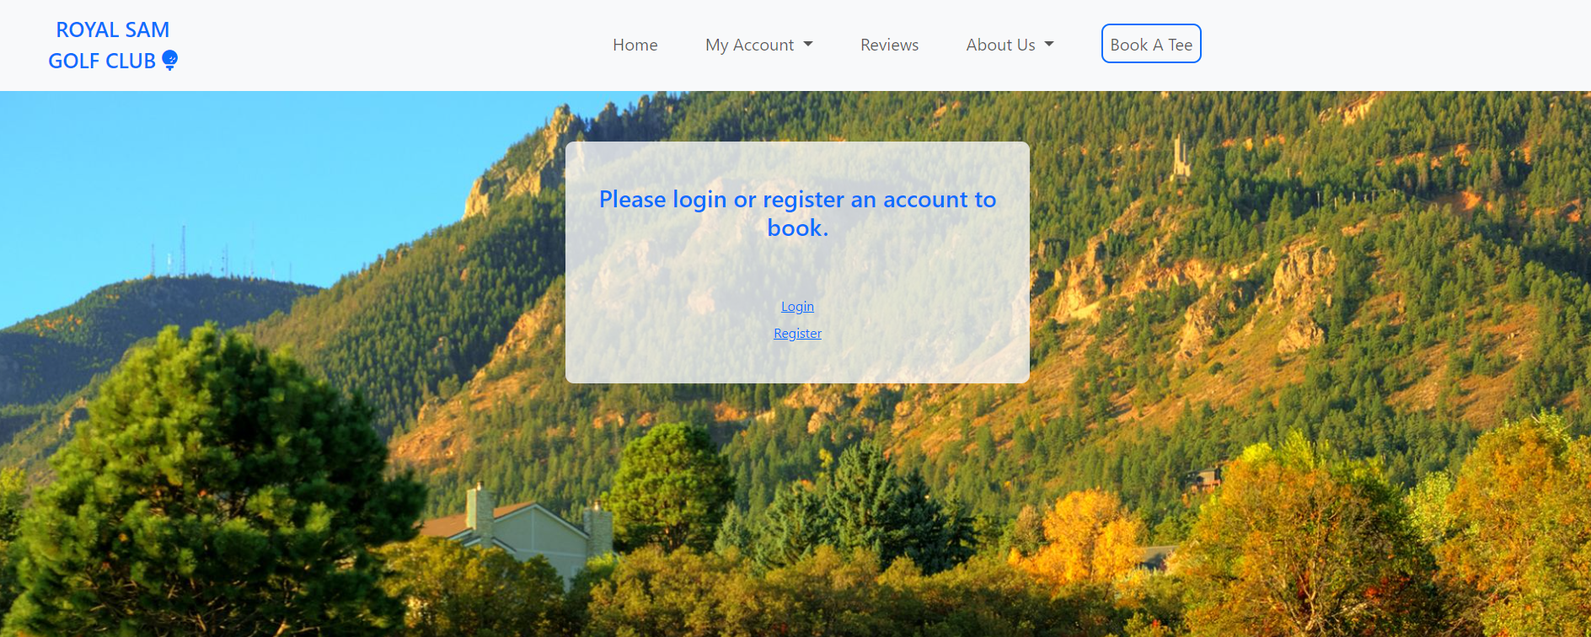
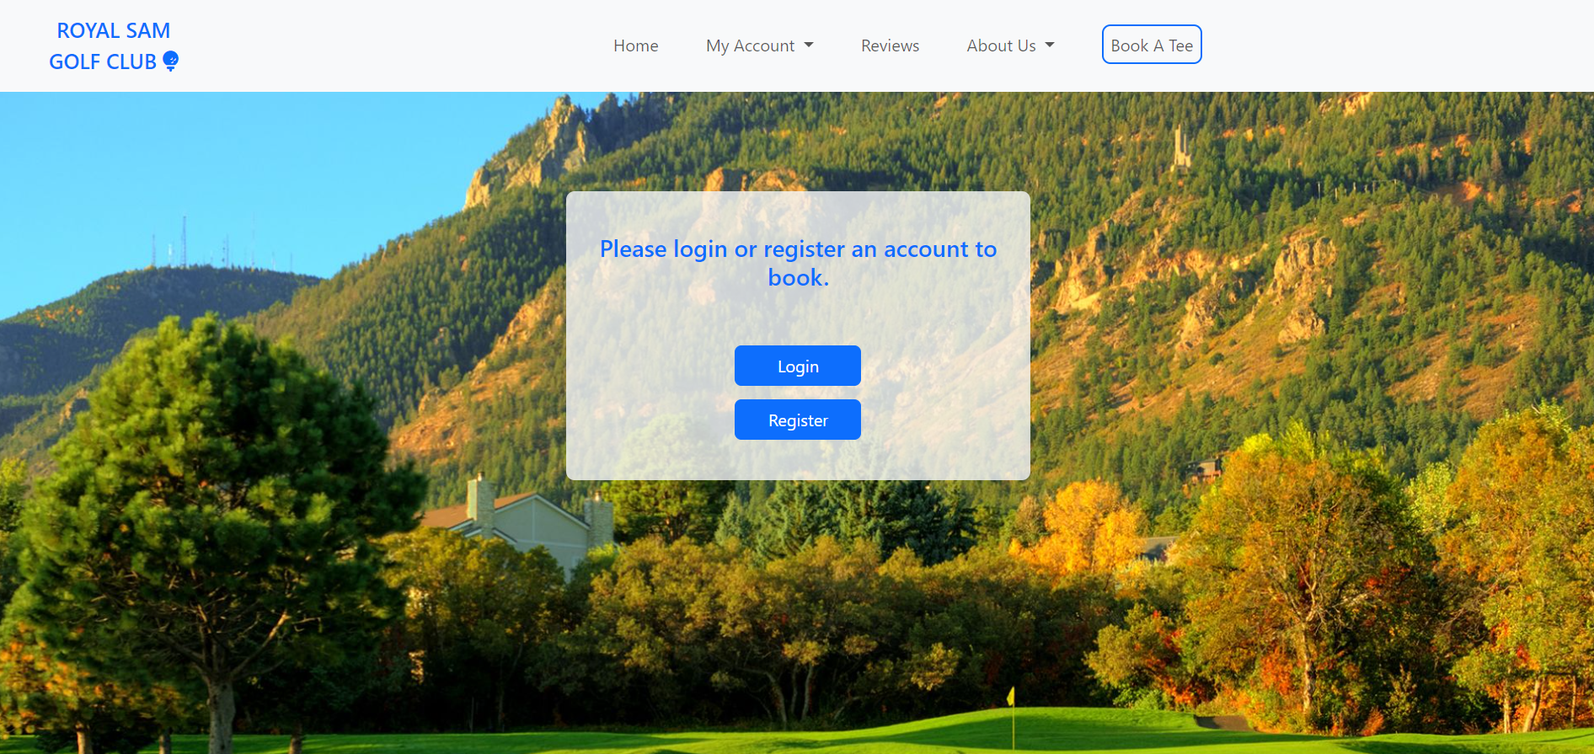
Add spelling and grammar corrections in read me file. Also add up to date screenshot of book a tee when logged out. Complete admin delete photos in manual testing table

diff --git a/TESTING.md b/TESTING.md
@@ -40,7 +40,7 @@ Full test table:
 | Logout | When user is logged in, they are able to click on the logout link, this takes them to a logout page which asks the user if they are sure they want to logout. Clicking on the logout in the message will logout the user. | Went through the logging out process using several different accounts. | Successfully logged out of accounts and navbar turns back into original (logged out) state. | Pass |
 | Logout pop-up message. | When a user has logged out a pop-up message appears informing them, they have logged out successfully. | Logged out with several different accounts. | Every time logged out successfully a pop-up message appeared informing me that I had done so. | Pass |
 | Reviews page logged out. | User is able to go onto the reviews page when logged out. A list of all reviews should be on display and user should also be able to paginate through the reviews. | Numerous times visited site without being logged in and went on the reviews page. | All reviews were displayed in a list and was able to paginate through the reviews. | Pass |
-| Reviews page logged in. | User is able to go onto the reviews page just like when logged out but now has a link option to leave their own review. This link takes them to the leave a review page and form. | Logged into several different accounts and went on to the reviews page. | Every time reviews were displayed as they should be a leave a review link is now present. The link successfully takes me to the leave a review page and form. | Pass |
+| Reviews page logged in. | User is able to go onto the reviews page just like when logged out but now has a link option to leave their own review. This link takes them to the leave a review page and form. | Logged into several different accounts and went on to the reviews page. | Every time reviews were displayed as they should be and a leave a review link is now present. The link successfully takes me to the leave a review page and form. | Pass |
 | Leave a review. | When user goes to leave a review, they must fill out the form correctly before submitting. Once form is filled out correctly and submitted user is redirected back to the reviews page and informed with pop up message the review is awaiting approval. | As a user attempted to leave many reviews and tried submitting form incorrectly. | Form had to be filled out correctly. Once done correctly I was redirected to the main reviews page and had pop up message saying my review is awaiting approval. | Pass |
 | logged out review in full. | When user is logged out and on the reviews page, they are able to click on any review they choose and be able to open that review in full and see all its details, including any comments. | Went on the review page and tried clicking on all reviews. | Every time I was taken to the review I clicked on, the review was now displayed in full on its own, with any comments also on display. | Pass |
 | Logged in review in full. | When user is logged in, they can open a review up in full the same as when logged out, but now they are able to like the review themselves and also able to leave a comment of the own by filling out the comment form which is now visible. | Logged into several different accounts and opened up several different reviews. | Every time reviews opened up in full. I was able to like and unlike the review by clicking on the heart icon. The comment form was also now visible to allow me to leave my own comment. | Pass |
@@ -49,8 +49,8 @@ Full test table:
 | Comment icon count. | When viewing the review in full the comments icon displays the number of how many comments this review has. | Clicked on several reviews to see if the comments icon was displaying the number of comments. Also then created new comments to make sure the number was adding up. | The comments icon was displaying the correct number of comments and was also adding up once a comment had been approved. | Pass |
 | Number of likes | When on the main reviews page, the review information on display would show how many likes this review has had. | Went on the main reviews page to see the list of all reviews to see if they displayed how many likes the review has had. I then went onto each review in full and liked them. | Every time I went onto the main reviews page, I could see how many likes each review has had, then when I went back on the main reviews page after liking individual reviews, I could see the number of likes had gone up. | Pass |
 | Google maps. | When user loads the Contact Us page, google maps loads and is displayed. | As a user loaded up the Contact Us page. | Contact Us page loads and google maps is on display. | Pass |
-| Book a tee. | When user is logged in and clicks on any book a tee links, the user is taken to the first part of the booking process. User must fill out he book a tee form correctly before being able to continue to the next part. | Logged in to several different accounts and clicked on the book a tee links. Tried leaving fields blank in the book a tee form. | Every time the book a tee form loaded correctly and user was not allowed to continue to the second part unless both fields were filled out correctly. | Pass |
-| Book a tee form correct date. | When user is selecting a date for the book a tee form, the user must select a date that either the present date or future date. Any past date submitted will make a pop-up message appear asking the user to select a future date. | Loaded the book a tee form and tried submitting a past date. | User was unable to move on to the next part of the booking and pop-up message appears asking user to select a future date. | Pass |
+| Book a tee. | When user is logged in and clicks on any book a tee links, the user is taken to the first part of the booking process. User must fill out the book a tee form correctly before being able to continue to the next part. | Logged in to several different accounts and clicked on the book a tee links. Tried leaving fields blank in the book a tee form. | Every time the book a tee form loaded correctly and user was not allowed to continue to the second part unless both fields were filled out correctly. | Pass |
+| Book a tee form correct date. | When user is selecting a date for the book a tee form, the user must select a date that is either the present date or future date. Any past date submitted will make a pop-up message appear asking the user to select a future date. | Loaded the book a tee form and tried submitting a past date. | User was unable to move on to the next part of the booking and pop-up message appears asking user to select a future date. | Pass |
 | Book a tee form available date. | When user is selecting a date for the book a tee form, the user must select a date that has available times. Once date is selected and next button clicked, if there are no available times for that date user will have to select a different date to progress with booking and pop-up message appears informing user there is no available times for that date. | Several times filled out the book a tee form with a date which I knew was fully booked or was too late at night. | Every time I was not allowed to progress to the next part of the booking and pop-up message appeared informing me there were no times available. | Pass |
 | Booking date default. | When booking form first loads, the dates default is always the present date. | Loaded up the booking form on several different days. | The date always defaults to the present date. | Pass |
 | Booking form 2 | Once user has successfully submitted the first part of them form with the date and email, they are forwarded onto to the second part of the form. The form loads and a pop-up message appears letting the user know what date they selected in the previous form. | Submitted the first part of the booking forms successfully. | The second part of the booking loaded correctly pop-up message appeared letting me know the date I selected in the previous form. | Pass |
@@ -60,8 +60,8 @@ Full test table:
 | Number of players. | When user is on the second part of the booking form, the number of players option is a drop down-menu and will only let users select number 1 to 4. This option is also default to 1. | Logged in as several different users and went through booking process and tried selecting number of players. | When trying to select number of players, form provides a drop-down menu which only lets users select number 1 - 4. When form is originally loaded its default was always 1. | Pass |
 | Booking member | When user is filling out the booking form, they are able to select and tick the box to confirm they are a member of the golf club. | Loaded the booking form and tried selecting the member field. | I was able to select the member field. | Pass |
 | Booking buggy. | When user is filling out the booking form, they are able to select whether or not they would like to have a buggy. | Loaded the booking form and tried selecting the buggy field. | I was able to select the buggy field. | Pass |
-| Successfully booked. | When user has successfully booked a tee time, they are redirected to the my bookings page where there booking should now be. A pop-up message will also appear showing information for the recent booking. | Logged in as several different users and created bookings. | Every time I created a booking, I was redirected to the my bookings page where I could see my bookings and a pop-up message appeared with information from my recent booking. | Pass |
-| My bookings page. | When User clicks on my bookings link, my bookings page loads displaying all clearly the bookings the user has made in order of their next booking. Bookings that haven't already past will be shown. | Logged in with many different users and loaded the my bookings page. | Every time I loaded the my bookings page, any bookings the user has made and that has not past were displayed clearly in a list, in order of the next booking. | Pass |
+| Successfully booked. | When user has successfully booked a tee time, they are redirected to the my bookings page where their booking should now be. A pop-up message will also appear showing information for the recent booking. | Logged in as several different users and created bookings. | Every time I created a booking, I was redirected to the my bookings page where I could see my bookings and a pop-up message appeared with information from my recent booking. | Pass |
+| My bookings page. | When User clicks on my bookings link, my bookings page loads clearly displaying all the bookings the user has made in order of their next booking. Bookings that haven't already past will be shown. | Logged in with many different users and loaded the my bookings page. | Every time I loaded the my bookings page, any bookings the user has made and that has not past were displayed clearly in a list, in order of the next booking. | Pass |
 | My booking page with no bookings. | When user loads the my bookings page and they have no upcoming bookings, a message on the screen will inform them they have no bookings with a link to book a tee. This link will take user to the first part of the book a tee form. | Logged in as several users with no bookings and loaded the my bookings page. | My bookings page loaded which then stated I had no bookings and shown me a link to book a tee. The book a tee link successfully took me to the first part of the book a tee form as other book a tee links. | Pass |
 | Paginate though my bookings. | When user loads up the my bookings page, if they have more than three bookings the user is able to paginate through different pages to view their bookings. | Logged into several different accounts that had lots of bookings and loaded the my bookings page. | I was able to paginate through pages to view all of my bookings. | Pass |
 | My bookings edit. | When user is in my bookings page, they are able to click on the edit button on any booking which will then take them to the first part of the booking forms. This time the form reads change tee time and has a cancel button present. | Logged in as several different users and tried the edit button on several different bookings. | Every time I clicked on the edit button, I was taken to the first part of the booking form, it was named change tee time and had a cancel button present. | Pass |
@@ -69,10 +69,10 @@ Full test table:
 | My bookings cancel button. | When user is in the editing a booking process, if in either of the forms the user clicks the cancel button, the editing process will be cancelled and redirected back to the main my bookings page. | Went through editing process and at separate occasions clicked on cancel in both forms. | Every time in either form the editing process was cancelled and was redirected back to main bookings page. | Pass |
 | Edit booking date. | When user tries to edit a booking, on the first form the default for the date field will now be the date of the booking the user is trying to edit. | Tried editing bookings with different dates. | Every time I clicked on edit, the existing date of the booking I was editing was already present in the date field. | Pass |
 | Edit booking email. | When user tries to edit a booking, on the first form the email field will already be filled in with the email from the existing booking. | Tried editing bookings with different emails. | Every time I clicked on edit on different users with different email addresses, the existing email address from that booking was already in the email field. | Pass |
-| Edit booking successful. | When user is trying to edit a booking and has gone through the process just like the original booking process. The user clicks update to submit, the user is then redirected back to the main my bookings page where they can find the booking they had edited will now show will the new information for the booking. Pop up message will also appear with information about the recent booking. | Went through the editing process for numerous bookings. | Every time I was redirected back to the main my bookings page where I could see the changes I had just made, and a pop-up message appeared showing me the recent booking information. | Pass |
+| Edit booking successful. | When user is trying to edit a booking and has gone through the process just like the original booking process. The user clicks update to submit, the user is then redirected back to the main my bookings page where they can find the booking they had edited and will now show the new information for the booking. Pop up message will also appear with information about the recent booking. | Went through the editing process for numerous bookings. | Every time I was redirected back to the main my bookings page where I could see the changes I had just made, and a pop-up message appeared showing me the recent booking information. | Pass |
 | Delete Booking. | When a user is on the my booking  page, they are able to click on delete on any of their bookings, which will take them to a page asking if they are sure they want to delete this booking. If they click yes, the booking will be deleted and redirected back to the main my bookings page, an alert message will also appear telling the user they have successfully deleted their booking. If they click no, they will be redirected back to the main my bookings page. | Logged into several different accounts and deleted several different bookings. Also clicked no to delete on several different bookings. | When I clicked on the delete button for any booking, I was taken to a separate page asking if I'm sure I want to delete. When I clicked yes, I was redirected back to the main my bookings page and the booking was deleted, the alert message was also on display. When I clicked on no I was redirected back to the main my bookings page and the booking was still present. | Pass |
-| All forms cannot accept only spaces. | When a user is filling out any of the forms, the user is not able to just use only spaces in any of the required fields and submit the form. | In the leave a review form and comments form, for all required fields I attempted to submit the forms with only spaces. I did this all together and fields individually to prove if it worked. | Every time I tried to submit a form with any of the required fields only having spaces, the form was not submitted and the page was reloaded with an alert message, informing the user the it's a required field and cannot contain white spaces alone. | Pass |
-| Maximum character limit in forms. | When a user is filling out either the leave a review form or comments form, they should be allowed to exceed the maximum characters in the field. In the leave a review form the title is 200 characters and content is 1000 characters. Comment for the body has a limit of 1000 characters. | Filled out both leave a review and comment forms several times, each time trying to exceed the character limit. | Every time I filled out the forms, the form itself would not let me go past the maximum characters in its field. | Pass |
+| All forms cannot accept only spaces. | When a user is filling out any of the forms, the user is not able to just use only spaces in any of the required fields and submit the form. | In the leave a review form and comments form, for all required fields I attempted to submit the forms with only spaces. I did this all together and fields individually to prove if it worked. | Every time I tried to submit a form with any of the required fields only having spaces, the form was not submitted and the page was reloaded with an alert message, informing the user it's a required field and cannot contain white spaces alone. | Pass |
+| Maximum character limit in forms. | When a user is filling out either the leave a review form or comments form, they should not be allowed to exceed the maximum characters in the field. In the leave a review form the title is 50 characters and content is 1000 characters. Comment for the body has a limit of 1000 characters. | Filled out both leave a review and comment forms several times, each time trying to exceed the character limit. | Every time I filled out the forms, the form itself would not let me go past the maximum characters in its field. | Pass |
 | Special cases work in review title. | When user uses any special cases that aren't usually accepted in a URL, the form accepts it and creates a slug that is accepted to be used for the URL. | Created different titles for my review using "!" and other special cases not usually accepted. | Each time the slug was automatically created a name accepted to be used in the URL. | Pass |
 | Unique review title. | When the user is filling out the leave a review form, the user must type in a unique title. If the title is not unique the form will be rendered again, with an alert message informing the user that the title they provided already exists. | Filled out the leave a review form several times and using titles I knew already existed. | The form would not be submitted and an alert message appeared informing me that the title already exists. | Pass |
 | Alert messages timeout. | Once an alert message is displayed it can either be closed by the user or timed out in four seconds. | Went through various scenarios where alert messages would be displayed. I then attempted to close them and see if they would time out. | Every time an alert message appeared I was able to close down the message myself or if I waited four seconds the message would time out. | Pass |
@@ -88,7 +88,7 @@ Full test table:
 | Admin create and amend booking. | As admin they are able to create a new or amend an existing booking. | Logged in as admin and tried to create a new booking and edit an existing booking. | I was able to create a new booking and able to edit an existing one. | Pass |
 | Admin delete booking. | As admin they are able to delete a booking. | Logged in as admin and deleted a booking. | I was successfully able to delete a booking. | Pass |
 | Admin add to photo gallery. | As admin they are able to upload new photos onto the site's gallery page. | Logged in as admin and tried uploading new photos to the gallery page. | Photos were successfully added to the gallery page. | Pass |
-| Admin delete photos from gallery. | As admin they able to delete any existing photos from the site's gallery page. | Logged in as admin and tried deleting photos from the gallery. |
+| Admin delete photos from gallery. | As admin they are able to delete any existing photos from the site's gallery page. | Logged in as admin and tried deleting photos from the gallery. | I was successfully able to delete photos. | Pass |
 | Error Page 404 works. | When user attempts something that creates an error 404, my custom 404.html page is rendered and user is able to click the link provided to go back to the homepage. | Created a 404 error. | My custom error 404 page was rendered and was able to click on link provided to navigate back to the homepage. | Pass |
 | Error Page 403 works. | When user attempts something that creates an error 403, my custom 403.html page is rendered and user is able to click the link provided to go back to the homepage. | Created a 403 error. | My custom error 403 page was rendered and was able to click on link provided to navigate back to the homepage. | Pass |
 | Error Page 403_csrf works. | When user attempts something that creates an error 403_csrf, my custom 403_csrf.html page is rendered and user is able to click the link provided to go back to the homepage. | Created a 403_csrf error. | My custom error 403_csrf page was rendered and was able to click on link provided to navigate back to the homepage. | Pass |
@@ -315,7 +315,7 @@ All results are in the table below:
 
 ### W3C CSS Validator
 
-W3C CSS Validator was use to validate the site's CSS code.
+W3C CSS Validator was used to validate the site's CSS code.
 
 ![W3C CSS Validator Screenshot](docs/testing_screenshots/css-validate-screenshot.png)
 
@@ -378,7 +378,7 @@ Devices tested and devices using google tools:
 | No maximum character limit on forms. | When user filled out the leave a review or comment forms, they were able to exceed the maximum characters set in the model. | Through research I found out that I can prevent the user from exceeding the maximum characters by setting the max length in the in the forms.py file. This then resolved the issue. |
 | Only spaces in forms. | When user filled out the leave a review or comment forms, they were able to just use the space bar in the fields and submit. | Through research I found that the "is_valid()" function that's checking if the form is valid, checks for white spaces and if so, deems the form invalid. I then used this to then render form again and display a message informing the user that white spaces alone are not accepted. This then resolved the issue. |
 | Access others edit and delete bookings. | I was able to copy the URL from one users edit / delete booking, then logout, paste in the URL and still be able access the edit and delete booking pages. | I then added login required to all classes that requires a user to be logged in, then also within the classes checked that the request user is the same as the booking user, if not this would render a 403 error and prevent users from accessing other users bookings. This resolved the issue. |
-| Users trying to book same booking at the same time. | When two users are going through the booking process at the same time and try to book the same booking, the first user to complete booking but the other user has the page rendered again but doesn't know why and the times aren't now displayed correctly. | I found out that the "is_valid()" function was checking this automatically  for me, so I changed the code so when this happens and the form isn't valid as another user has just made the booking, the user who's booking wasn't valid now has the page rendered again with a message informing them that the booking could now have been taken and to select an available time. The times available are now displaying the correct times. |
+| Users trying to book same booking at the same time. | When two users are going through the booking process at the same time and try to book the same booking, the first user to complete booking was fine, but the other user has the page rendered again but doesn't know why and the times aren't now displayed correctly. | I found out that the "is_valid()" function was checking this automatically  for me, so I changed the code so when this happens and the form isn't valid as another user has just made the booking, the user who's booking wasn't valid now has the page rendered again with a message informing them that the booking could now have been taken and to select an available time. The times available are now displaying the correct times. |
 
 [Back to top](#royal-sam-golf-club-testing)
 

diff --git a/README.md b/README.md
@@ -48,7 +48,7 @@ This is my fourth portfolio project for the Code Institute and my goal with this
 
 ### The Strategy Plane
 
-Royal Sam Golf Club is intended to help golfers be able to book tee times to play at the golf course whether they are a member of a guest of the golf club. User will also be able to manage their bookings and be able to leave reviews and comment on other reviews.
+Royal Sam Golf Club is intended to help golfers be able to book tee times to play at the golf course whether they are a member or a guest of the golf club. User will also be able to manage their bookings and be able to leave reviews and comment on other reviews.
 
 #### The Ideal User
 
@@ -302,7 +302,7 @@ Delete Page:
 
 #### Database Schema
 
-The profile model is linked directly to the built in User Model in conjunction with Django Allauth with the user profile being created when the user registers with the site. The Post (reviews) model has a relationship with the User model by foreign key, this allows for the reviews left to be linked back to the specific user and their profile. The comment model is linked by foreign key to the Post model (reviews) to store comments for the specific review.
+The profile model is linked directly to the built in User Model in conjunction with Django Allauth with the user profile being created when the user registers with the site. The Post (reviews) model has a relationship with the User model by foreign key, this allows for the reviews to be linked back to the specific user and their profile. The comment model is linked by foreign key to the Post model (reviews) to store comments for the specific review.
 
 The Booking model is also linked directly to the built in User Model so all bookings to be linked back to the specific user.
 
@@ -367,7 +367,7 @@ Mobile Device:
 
 ***Footer***
 
-The footer is placed at the bottom of ever page. The social media links are displayed with icons provided by Font Awesome. This is where the user can click on one of the social media links and reach out for news and updates, these icons will also open up in new tabs as they will lead the user away from the site.
+The footer is placed at the bottom of every page. The social media links are displayed with icons provided by Font Awesome. This is where the user can click on one of the social media links and reach out for news and updates, these icons will also open up in new tabs as they will lead the user away from the site.
 
 There is also contact information in the form of email address and telephone number.
 
@@ -395,7 +395,7 @@ As a User if I haven't already made an online account, I would like to be able t
 
 ***Login Page***
 
-As a User if I have already registered an account, I would like to be able to log into my account whenever I wish, whether it to be to book a tee time or leave a review. I would login by using the allauth login form.
+As a User if I have already registered an account, I would like to be able to log into my account whenever I wish, whether it to be to book a tee time or leave a review. I would login by using the Allauth login form.
 
 ![Login Page Screenshot 1](docs/readme_screenshots/login-screenshot-1.png)
 
@@ -673,8 +673,8 @@ For version control the following steps were made:
 Creating a clone allows you to make a copy of the repository at the specific point in time. This lets you run a copy of the project locally. This can be done by:
 
 - Navigate to the repository you choose to clone in your GitHub.
-- Clicking on the the arrow of the green button named "Code" at the top of the file.
-- Then select "Local" then under local select "HTTPS" and then copy that url.
+- Clicking on the arrow of the green button named "Code" at the top of the file.
+- Then select "Local" then under local select "HTTPS" and then copy that URL.
 - Navigate to your code editor and within the terminal change the directory to the location you wish to clone the repository to.
 - Type "git clone" and paste the copied HTTPS link from GitHub.
 - Press enter and git will clone the repository to your local machine.
@@ -728,10 +728,10 @@ For deployment to Heroku the following steps were made:
 
 ## Future Additions
 
-- Create a forgotten password page so if user has forgotten there password there is a process to create another one.
+- Create a forgotten password page so if user has forgotten their password there is a process to create another one.
 - Create a change password option, so if the user feels the need to change their password, when they are logged in there is a process for them to change their password.
-- Email confirmation of booking, so when the user makes a booking they will recieve confirmation to their email.
-- When a user is editing a booking, when they are on the booking time form, all values from that booking are pre selected and not the default values.
+- Email confirmation of booking, so when the user makes a booking they will receive confirmation to their email.
+- When a user is editing a booking, when they are on the booking time form, all values from that booking are pre-selected and not the default values.
 - For myself to carry out more python testing and cover in more detail.
 
 [Back to top](#royal-sam-golf-club)
